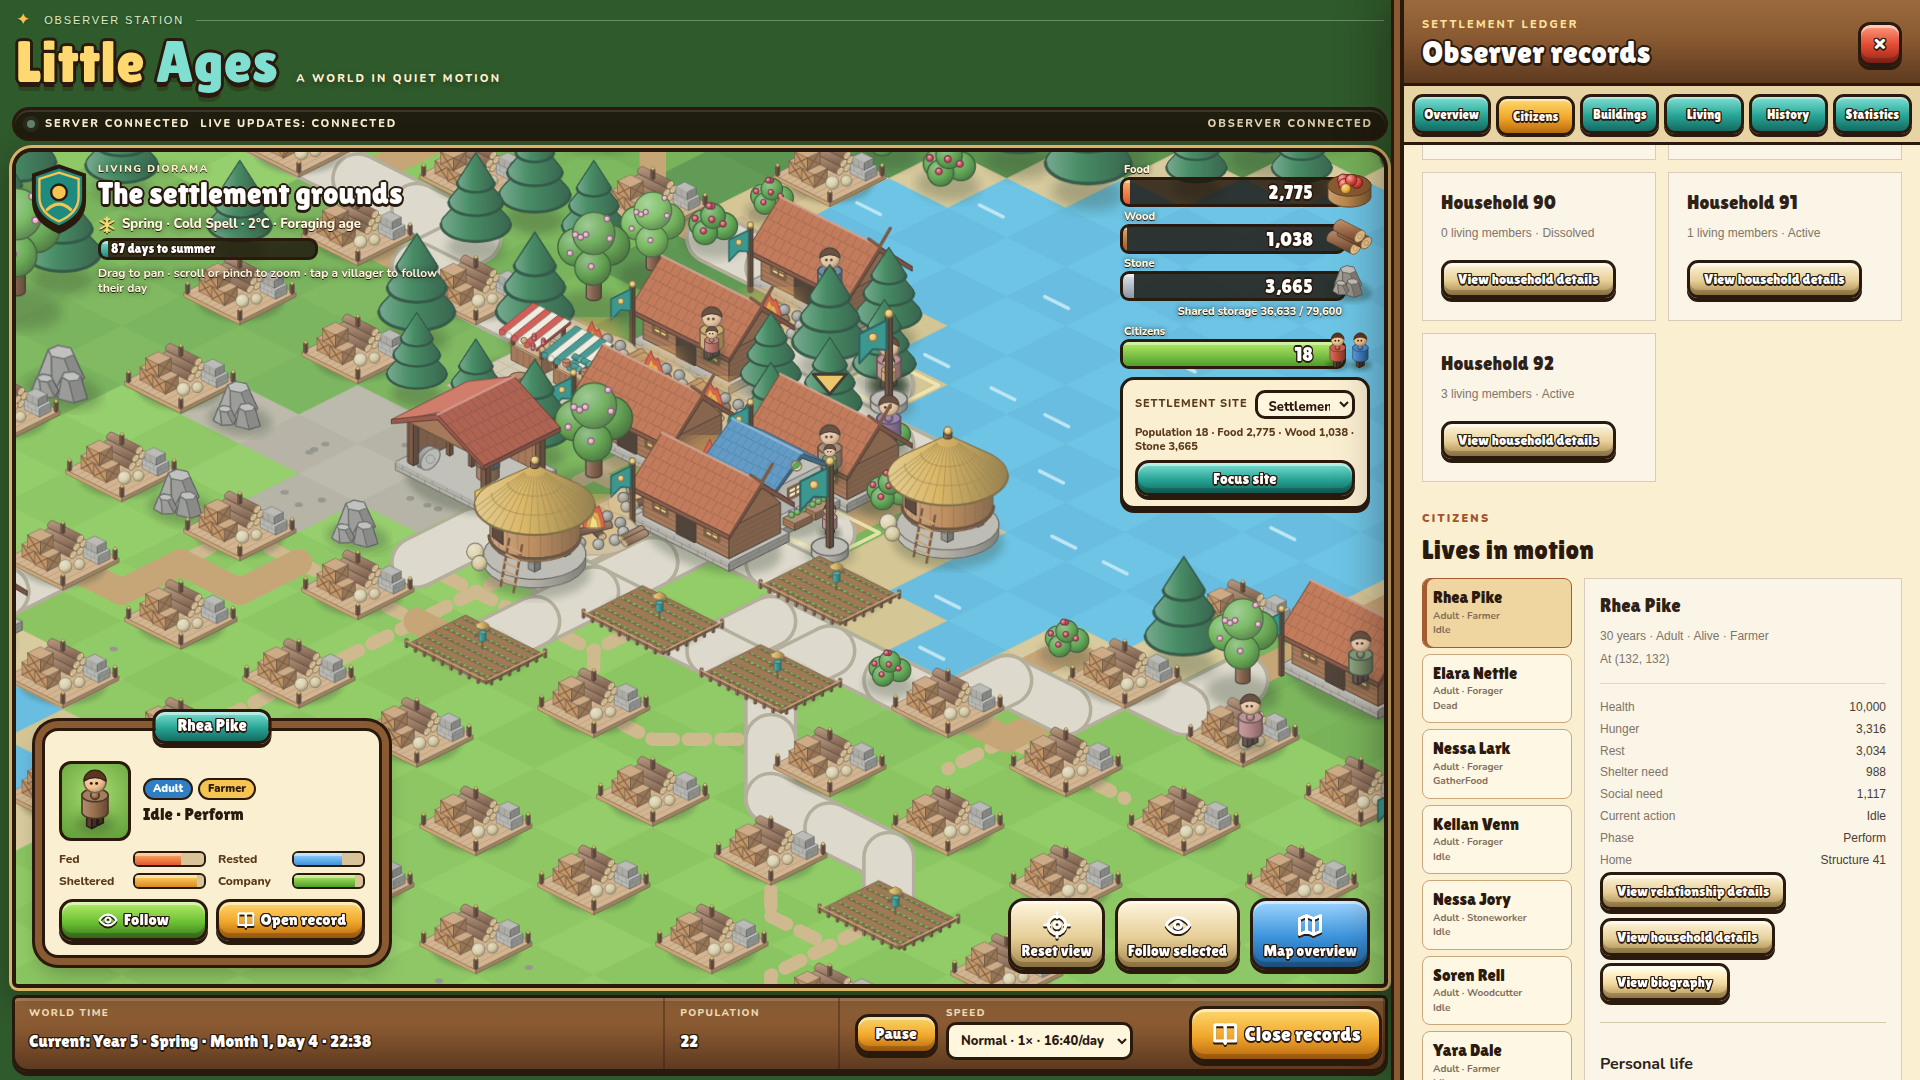
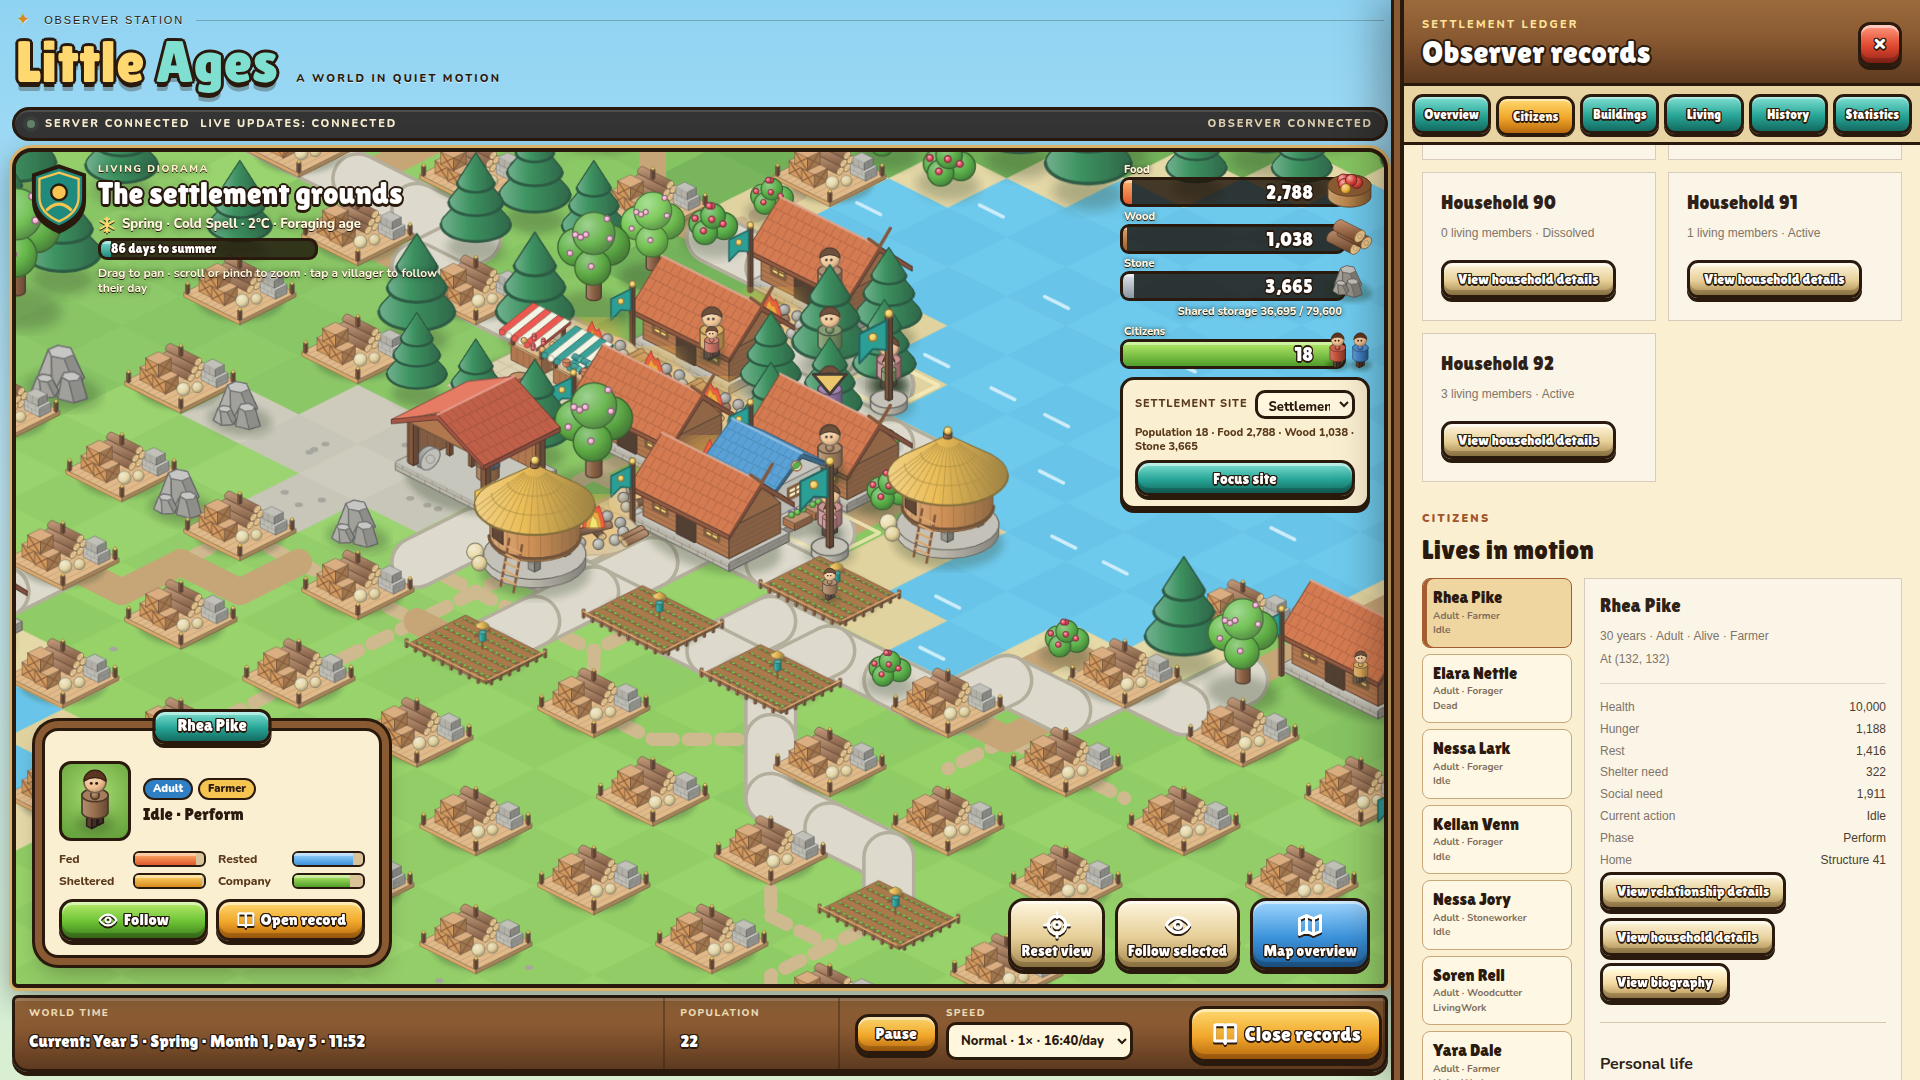
Brighten the painted village
- Brighter, more saturated ground palettes for every season; each season
  keeps its own character, and weather overlays are unchanged.
- Relief shading only lightens high ground, so low land keeps full colour.
- Bake a light saturation/brightness/contrast boost into sprite rasters
  (once per zoom level, no per-frame cost).
- Sky-blue page around the world instead of the dark green frame.
- The dev art study's season preview now also drives the HUD badge.
- Refresh README captures.

Claude-Session: https://claude.ai/code/session_01S3GU6L1MWshM1nbjgW6K1E

diff --git a/src/LittleAges.Web/src/world/iso/seasons.ts b/src/LittleAges.Web/src/world/iso/seasons.ts
@@ -24,8 +24,8 @@ export type TerrainPalette = {
 
 /** Ground colours per season. Pairs alternate in a checkerboard like a lawn. */
 export const TERRAIN_PALETTES: Record<Season, TerrainPalette> = {
-  spring: { grass: ['#8acb4c', '#82c345'], forest: ['#6fb13f', '#69ab3b'], wilderness: ['#4f8f36', '#4a8932'], rocky: ['#b9b09a', '#b1a893'], water: ['#56b8de', '#5cc0e4'], shore: ['#e6cf92', '#e1c887'], ripple: '#bfe9f7', pebble: '#8f887c', backdrop: '#5e9a36' },
-  summer: { grass: ['#9ccf4a', '#95c843'], forest: ['#7cb33c', '#76ad38'], wilderness: ['#588f33', '#538a30'], rocky: ['#c2b79c', '#bab095'], water: ['#3fb0e0', '#48b8e6'], shore: ['#efd592', '#e9cd86'], ripple: '#c9f0ff', pebble: '#958d7e', backdrop: '#6c9e34' },
-  autumn: { grass: ['#b5b54e', '#acad48'], forest: ['#9b9f42', '#95993e'], wilderness: ['#77803a', '#727b37'], rocky: ['#b3a78e', '#aca088'], water: ['#4d9fbf', '#539fc4'], shore: ['#dcc48c', '#d6bc82'], ripple: '#b4dcea', pebble: '#877f71', backdrop: '#7f8a3a' },
-  winter: { grass: ['#f1f5f9', '#e8eef4'], forest: ['#e3eaf0', '#dde5ec'], wilderness: ['#d3dde6', '#cdd8e2'], rocky: ['#d8d9d8', '#d0d2d1'], water: ['#c9e6f2', '#c1e0ee'], shore: ['#e9edf1', '#e2e8ee'], ripple: '#ffffff', pebble: '#9ea4a8', backdrop: '#cfd9e2' },
+  spring: { grass: ['#8fd14e', '#87ca48'], forest: ['#7fc446', '#79bf42'], wilderness: ['#68ae3d', '#63a93a'], rocky: ['#cfc6b0', '#c8bfa9'], water: ['#56c0e8', '#5dc7ee'], shore: ['#efd99a', '#ead28f'], ripple: '#d2f2ff', pebble: '#a39b8e', backdrop: '#6fb13f' },
+  summer: { grass: ['#a2d64c', '#9ad046'], forest: ['#8cc443', '#86bf3f'], wilderness: ['#70ad3a', '#6ba837'], rocky: ['#d4c9ad', '#cdc2a6'], water: ['#3fbbee', '#48c2f2'], shore: ['#f5dc98', '#f0d58c'], ripple: '#dcf6ff', pebble: '#a39a89', backdrop: '#7fb83c' },
+  autumn: { grass: ['#c2bf52', '#bab84c'], forest: ['#abab47', '#a5a543'], wilderness: ['#8f943f', '#8a8f3c'], rocky: ['#c9bda2', '#c2b69b'], water: ['#4fb0d6', '#56b6db'], shore: ['#e8cf93', '#e2c88a'], ripple: '#c8ebf6', pebble: '#978e7e', backdrop: '#98a043' },
+  winter: { grass: ['#f1f5f9', '#e8eef4'], forest: ['#e3eaf0', '#dde5ec'], wilderness: ['#d3dde6', '#cdd8e2'], rocky: ['#e0e2e1', '#d9dbda'], water: ['#cdeaf7', '#c5e4f3'], shore: ['#e9edf1', '#e2e8ee'], ripple: '#ffffff', pebble: '#9ea4a8', backdrop: '#cfd9e2' },
 }

diff --git a/src/LittleAges.Web/src/hud.css b/src/LittleAges.Web/src/hud.css
@@ -13,16 +13,17 @@
   --hud-outline-thin: 0 2px 0 var(--hud-ink), 1.2px 0 0 var(--hud-ink), -1.2px 0 0 var(--hud-ink), 0 -1.2px 0 var(--hud-ink), 1px 1px 0 var(--hud-ink), -1px 1px 0 var(--hud-ink), 1px -1px 0 var(--hud-ink), -1px -1px 0 var(--hud-ink);
   font-family: var(--hud-body);
 }
-body { background: #2f5a2c; }
+body { background: linear-gradient(180deg, #8fd3f2 0%, #bfe7f7 45%, #d9efd0 100%) fixed; }
 body::before { display: none; }
 .observer-drawer-body h2, .observer-drawer-body h3, .observer-panel-header h2 { font-family: var(--hud-display); font-weight: 400; letter-spacing: .01em; }
 
 /* Wordmark and connection strip */
-.topline { color: #d9ecc6; }
-.topline .mark { color: #f5c451; }
+.topline { color: var(--hud-ink); text-shadow: 0 1px 0 rgba(255,255,255,.6); }
+.topline .rule { background: rgba(42,26,14,.25); }
+.topline .mark { color: #d98a1c; }
 .hero h1 { font-family: var(--hud-display); letter-spacing: .005em; color: #ffd970; text-shadow: 0 5px 0 var(--hud-ink), 3px 0 0 var(--hud-ink), -3px 0 0 var(--hud-ink), 0 -3px 0 var(--hud-ink), 2px 2px 0 var(--hud-ink), -2px 2px 0 var(--hud-ink), 2px -2px 0 var(--hud-ink), -2px -2px 0 var(--hud-ink), 0 9px 0 rgba(42,26,14,.3); }
 .hero h1 em { font-style: normal; color: #7fe0d2; }
-.hero .eyebrow { font: 800 11px/1.2 var(--hud-body); letter-spacing: .2em; color: #fff2ce; }
+.hero .eyebrow { font: 800 11px/1.2 var(--hud-body); letter-spacing: .2em; color: var(--hud-ink); text-shadow: 0 1px 0 rgba(255,255,255,.6); }
 .status-strip { border: 3px solid var(--hud-ink); border-radius: 999px; background: rgba(28,16,8,.82); box-shadow: inset 0 2px rgba(255,255,255,.12); font-family: var(--hud-body); font-weight: 800; }
 
 /* Chunky buttons */

diff --git a/src/LittleAges.Web/src/world/Hud.tsx b/src/LittleAges.Web/src/world/Hud.tsx
@@ -2,7 +2,7 @@ import type { ReactNode } from 'react'
 import type { Citizen, Settlement } from '../api'
 import type { LivingWorld } from '../living'
 import { livingLabel } from '../living'
-import { seasonAt } from './iso/seasons'
+import { seasonAt, type Season } from './iso/seasons'
 
 const ICON_PATHS = {
   book: <><path d="M4 5.5C4 4.7 4.7 4 5.5 4H11c1.1 0 2 .9 2 2v14c0-1.1-.9-2-2-2H4z" /><path d="M22 5.5c0-.8-.7-1.5-1.5-1.5H15c-1.1 0-2 .9-2 2v14c0-1.1.9-2 2-2h7z" /></>,
@@ -31,8 +31,8 @@ const NEXT_SEASON = { spring: 'summer', summer: 'autumn', autumn: 'winter', wint
 const MINUTES_PER_DAY = 1440
 
 /** Top-left badge: the settlement, its season, and the weather, with progress toward the next season. */
-export function SettlementBadge({ worldMinute, living, hint }: { worldMinute: number; living?: LivingWorld | null; hint: string }) {
-  const season = seasonAt(worldMinute)
+export function SettlementBadge({ worldMinute, living, hint, previewSeason }: { worldMinute: number; living?: LivingWorld | null; hint: string; previewSeason?: Season }) {
+  const season = previewSeason ?? seasonAt(worldMinute)
   const dayOfSeason = Math.floor(worldMinute / MINUTES_PER_DAY) % 90
   const remaining = 90 - dayOfSeason
   const weatherIcon: HudIconName = living?.weather === 'Rain' ? 'rain' : living?.weather === 'ColdSpell' ? 'snow' : SEASON_ICONS[season]

diff --git a/src/LittleAges.Web/src/world/WorldViewport.tsx b/src/LittleAges.Web/src/world/WorldViewport.tsx
@@ -88,7 +88,7 @@ export function WorldViewport(props: WorldViewportProps) {
 
   return <section className="world-viewport" aria-labelledby="world-heading" tabIndex={0} onKeyDown={onKeyDown}>
     <div className="world-hud-top">
-      <SettlementBadge worldMinute={props.worldMinute ?? 0} living={props.living} hint={overview && props.living ? 'Gold fields are ready to harvest · outlined sites have active work' : 'Drag to pan · scroll or pinch to zoom · tap a villager to follow their day'} />
+      <SettlementBadge worldMinute={props.worldMinute ?? 0} living={props.living} previewSeason={import.meta.env.DEV ? props.previewSeason : undefined} hint={overview && props.living ? 'Gold fields are ready to harvest · outlined sites have active work' : 'Drag to pan · scroll or pinch to zoom · tap a villager to follow their day'} />
       <div className="world-hud-right">
         <ResourceMeters settlement={props.settlement} />
     {settlementSites.length > 1 && <div className="world-site-control" aria-label="Settlement site controls">

diff --git a/src/LittleAges.Web/src/world/iso/sprites.ts b/src/LittleAges.Web/src/world/iso/sprites.ts
@@ -7,6 +7,7 @@ export type SpritePlacement = { width: number; height: number; anchorX: number; 
 const placements = spriteManifest.sprites as Record<string, SpritePlacement>
 const SPRITE_ROOT = '/assets/sprites'
 const MAX_RASTERS = 320
+const SPRITE_POP = 'saturate(1.18) brightness(1.03) contrast(1.04)'
 
 export function spritePlacement(key: string): SpritePlacement | null {
   return placements[key] ?? null
@@ -70,6 +71,8 @@ export class SpriteKit {
     canvas.height = Math.max(1, Math.ceil(placement.height * bucket))
     const context = canvas.getContext('2d')
     if (!context) return null
+    // A little extra colour and light, baked in once per zoom level so it costs nothing per frame.
+    context.filter = SPRITE_POP
     context.drawImage(image, 0, 0, canvas.width, canvas.height)
     // Keep a bounded set of bitmaps; zooming to a new level gradually replaces the old ones.
     if (this.rasters.size >= MAX_RASTERS) this.rasters.delete(this.rasters.keys().next().value as string)

diff --git a/src/LittleAges.Web/src/world/iso/terrain.ts b/src/LittleAges.Web/src/world/iso/terrain.ts
@@ -37,8 +37,8 @@ export function tileColor(map: WorldMap, palette: TerrainPalette, x: number, y: 
     : terrain === ROCKY ? palette.rocky[parity]
     : palette.grass[parity]
   if (terrain === FRESHWATER) return base
-  // Gentle relief: high ground a little lighter, hollows a little darker.
-  return mix(base, (map.elevation[y * map.width + x] / 10000 - 0.5) * 0.14)
+  // Gentle relief: high ground catches a little more sun. Low ground keeps its colour, so the land stays bright.
+  return mix(base, Math.max(0, map.elevation[y * map.width + x] / 10000 - 0.4) * 0.12)
 }
 
 /** Draws one chunk of flat diamond tiles at `scale` pixels per unit. Returns null outside the map. */

diff --git a/docs/graphics-direction.md b/docs/graphics-direction.md
@@ -25,8 +25,8 @@ Cosmetic values are neither persisted nor fingerprinted.
 - Fixed-angle isometric projection (`src/world/iso/projection.ts`). A world tile
   is a diamond two units wide and one unit tall; world tile coordinates are tile
   centres. There is no camera rotation.
-- The ground is flat. Canonical elevation only lightens high ground and darkens
-  hollows slightly.
+- The ground is flat. Canonical elevation only lightens high ground slightly, so
+  low land keeps its full colour.
 - The 160×160 terrain is drawn in cached 16×16-tile chunks, rasterized once per
   zoom level and season. Sprites (buildings, resources, decorative trees, fields,
   facilities, animals, villagers, settlement-site markers) are bucketed by chunk,
@@ -87,7 +87,9 @@ units. Do not hand-edit generated sprites or the manifest.
 
 The kit is 140 sprites and about 1.4 MB of SVG; a session loads one season
 (about 360 KB) plus the shared people and markers (about 220 KB). Sprites are
-rasterized at the current zoom and cached, so they stay sharp when zoomed.
+rasterized at the current zoom and cached, so they stay sharp when zoomed. A light
+saturation, brightness and contrast boost is baked in at that step, so it costs
+nothing per frame; weather overlays still draw on top.
 
 ## Game HUD
 
